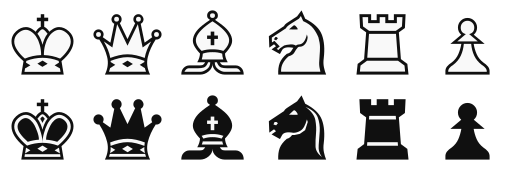
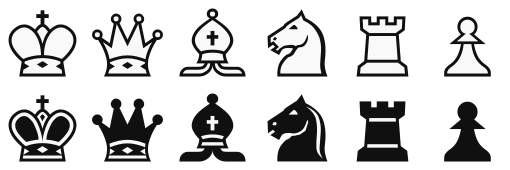
Re-scaling piece set images

diff --git a/src/Game/GameHandler.cpp b/src/Game/GameHandler.cpp
@@ -188,7 +188,7 @@ void GameHandler::highlightMove(int move, bool flag) {
 void GameHandler::loadTextures() {
 	mTextures.load(Textures::Board, Constants::dataPrefix + "resources/images/boards/default.png");
 	mTextures.load(Textures::PiecesSet,
-	               Constants::dataPrefix + "resources/images/pieces/default.png");
+	               Constants::dataPrefix + "resources/images/pieces/alpha.png");
 }
 
 void GameHandler::buildScene() {
